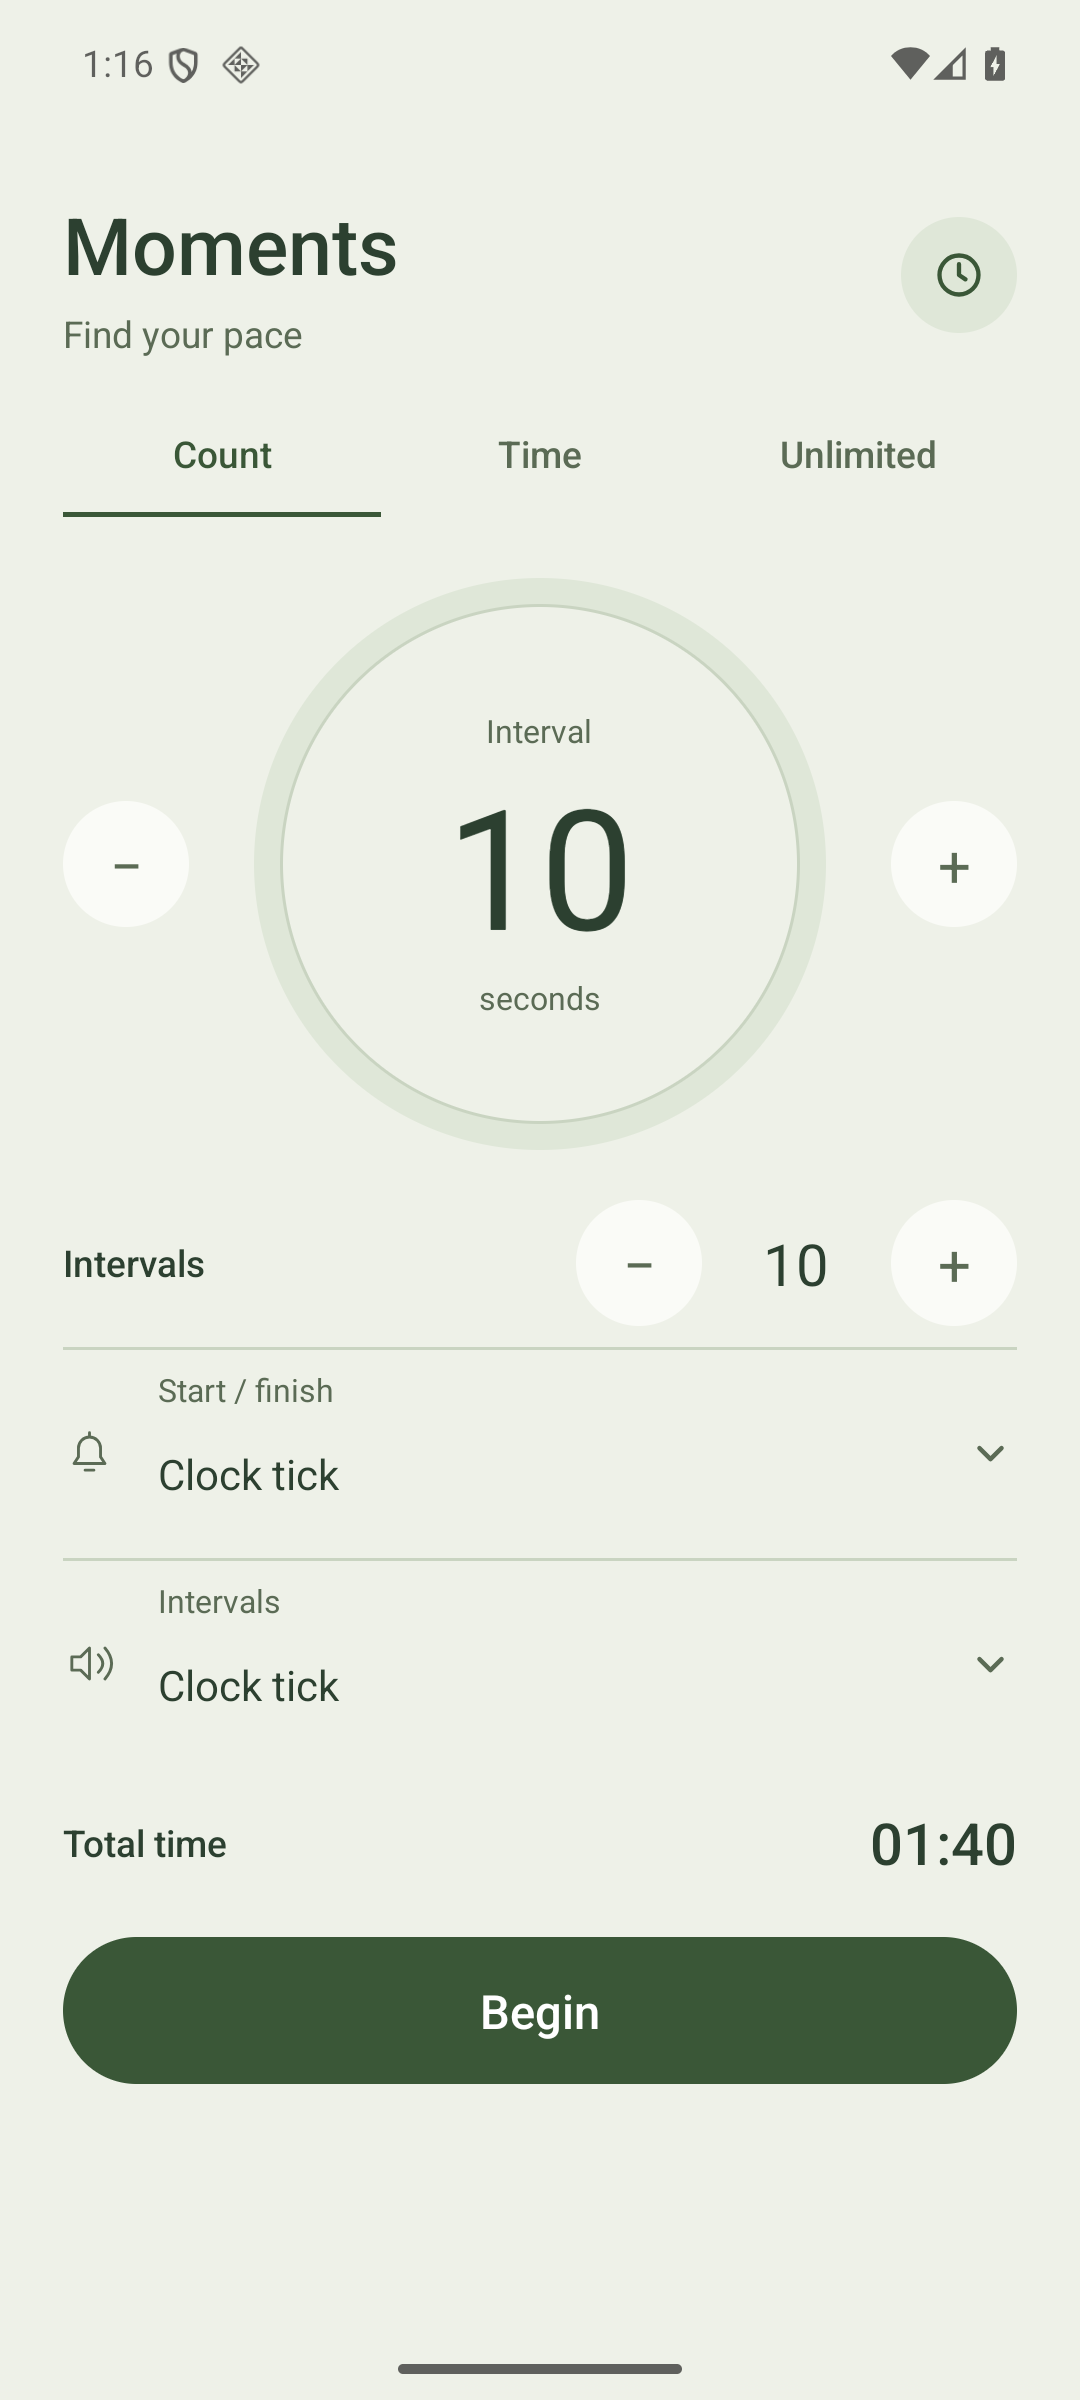
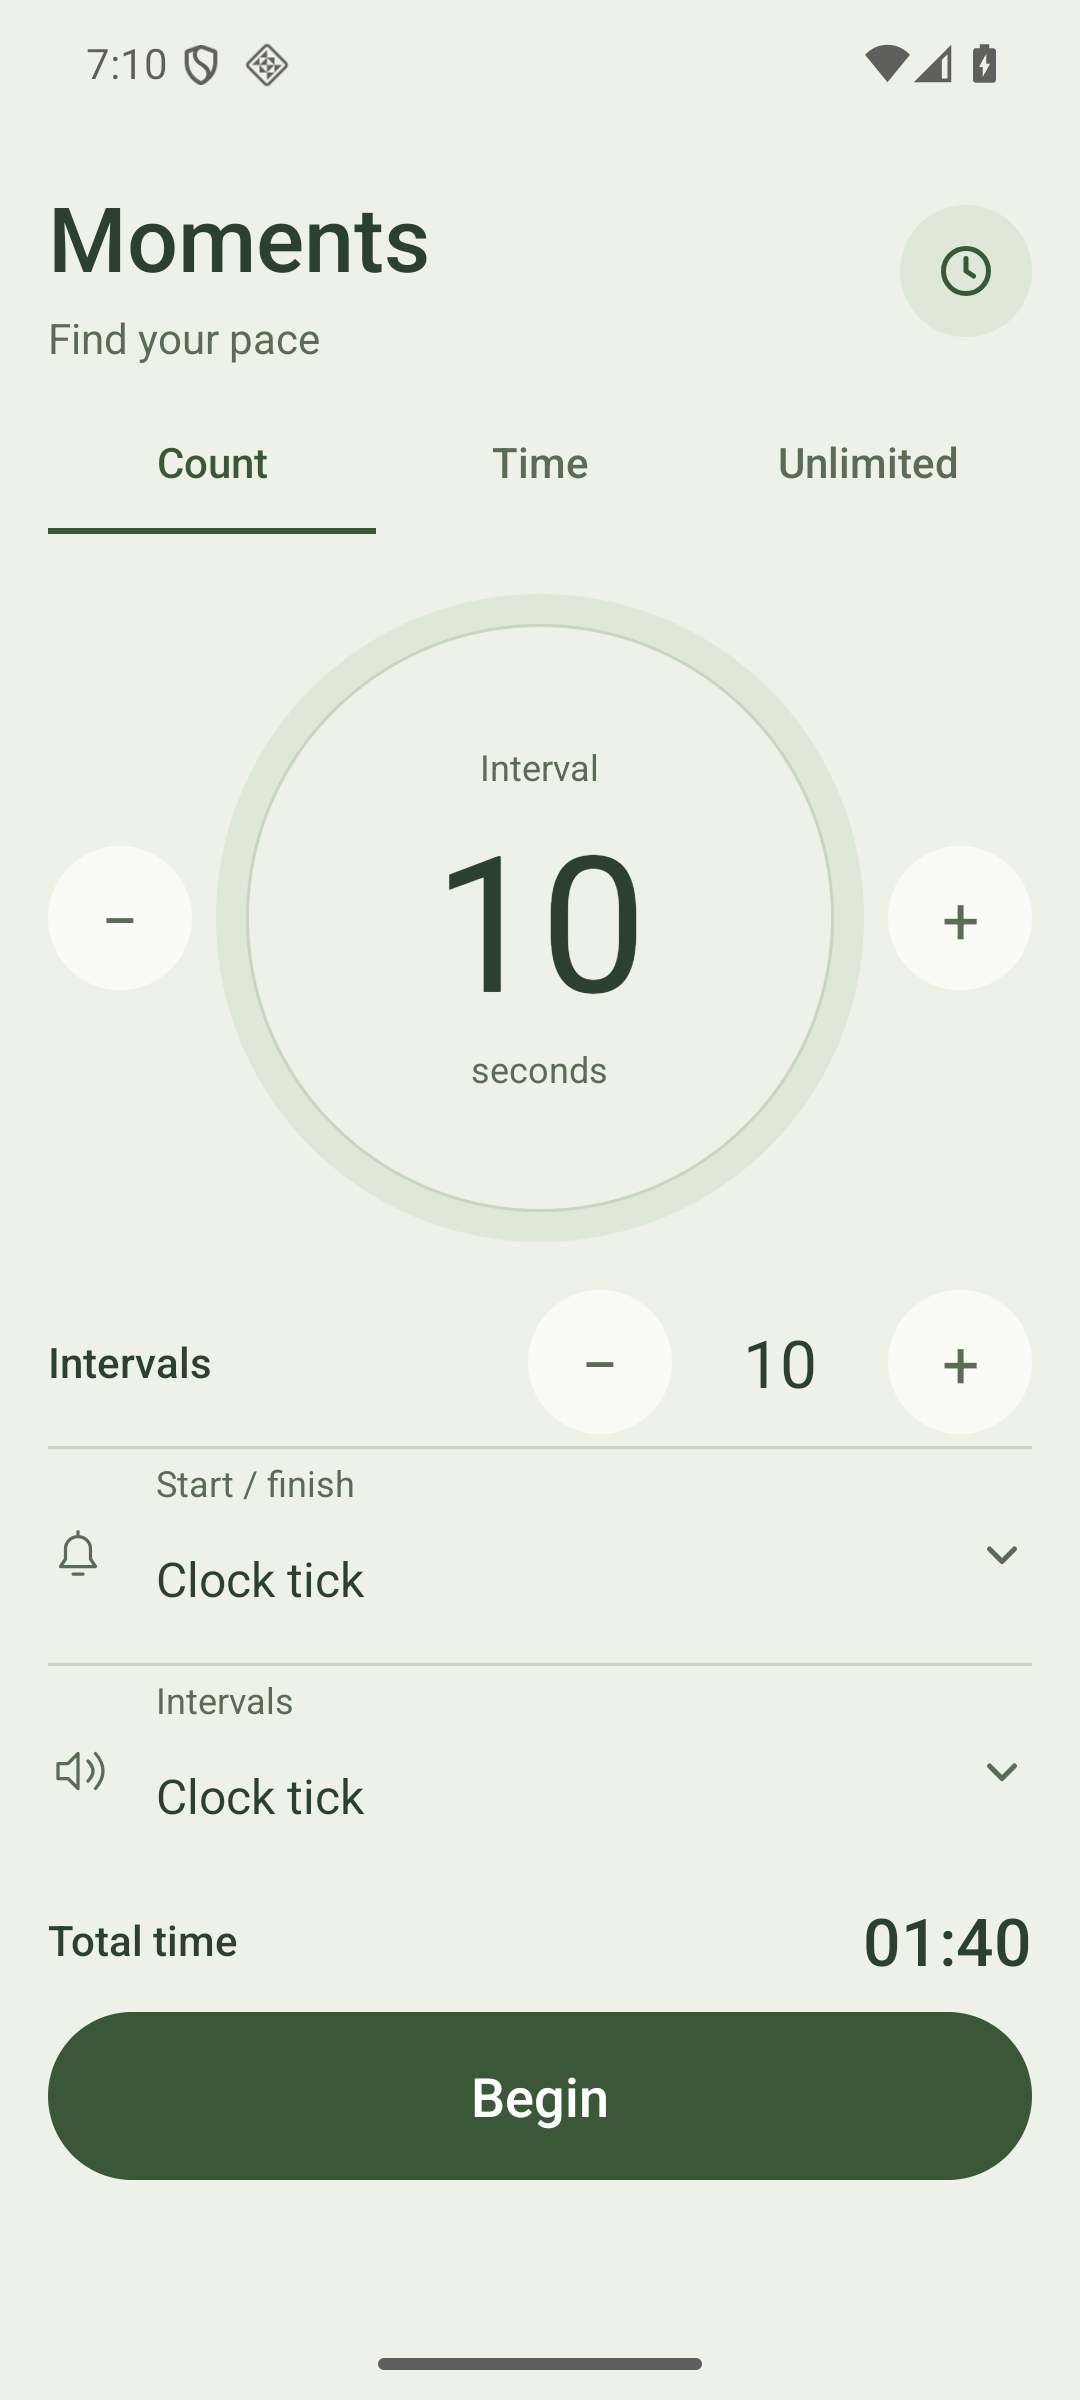
Fix settings layout on smaller phone viewports
Fit the interval dial to the available height, tighten settings spacing,
and compact the landscape header while keeping sound rows stationary.
Center screens within the usable width so system bars cannot clip controls.

Add compact viewport, resizing, and clipping regressions, update the
settings screenshot and README, and bump the app to version 1.8.1.

Validated with 47 unit tests, UI regression checks on two display profiles,
and clean release lint.

diff --git a/app/src/main/java/net/namekdev/moments/MainActivity.kt b/app/src/main/java/net/namekdev/moments/MainActivity.kt
@@ -33,6 +33,7 @@ import android.widget.FrameLayout
 import android.widget.LinearLayout
 import android.widget.RadioButton
 import android.widget.RadioGroup
+import android.widget.ScrollView
 import android.widget.TextView
 import android.widget.Toast
 
@@ -206,6 +207,15 @@ class MainActivity : Activity() {
         val configuration = resources.configuration
         if (configuration.orientation == Configuration.ORIENTATION_LANDSCAPE && configuration.fontScale < 1.3f) {
             findViewById<View>(R.id.setup_subtitle).visibility = View.GONE
+            findViewById<LinearLayout>(R.id.setup_header).orientation = LinearLayout.HORIZONTAL
+            for (id in listOf(R.id.brand_header, R.id.limit_mode)) {
+                findViewById<View>(id).layoutParams = (findViewById<View>(id).layoutParams as LinearLayout.LayoutParams).apply {
+                    width = 0
+                    weight = if (id == R.id.brand_header) 1f else 2f
+                    topMargin = 0
+                    marginStart = if (id == R.id.limit_mode) (16 * resources.displayMetrics.density).toInt() else 0
+                }
+            }
             findViewById<LinearLayout>(R.id.number_fields).orientation = LinearLayout.HORIZONTAL
             for (id in listOf(R.id.interval_fields, R.id.settings_details)) {
                 findViewById<View>(id).layoutParams = (findViewById<View>(id).layoutParams as LinearLayout.LayoutParams).apply {
@@ -223,19 +233,37 @@ class MainActivity : Activity() {
                 fields.getChildAt(1).layoutParams = LinearLayout.LayoutParams(0, LinearLayout.LayoutParams.WRAP_CONTENT, 1f)
             }
         }
-        val availableWidth = configuration.screenWidthDp - 2 * resources.getDimension(R.dimen.setup_padding) / resources.displayMetrics.density
-        val defaultDialSize = resources.getDimension(R.dimen.dial_size)
-        val dialSize = minOf(defaultDialSize, (availableWidth - 112) * resources.displayMetrics.density).toInt().coerceAtLeast(1)
-        findViewById<View>(R.id.interval_dial).layoutParams = (findViewById<View>(R.id.interval_dial).layoutParams as FrameLayout.LayoutParams).apply {
-            width = dialSize
-            height = dialSize
+        findViewById<ScrollView>(R.id.configuration_screen).addOnLayoutChangeListener { view, left, top, right, bottom, oldLeft, oldTop, oldRight, oldBottom ->
+            // Mode changes keep the same dial size; only a resized viewport needs fitting.
+            if (right - left == oldRight - oldLeft && bottom - top == oldBottom - oldTop) return@addOnLayoutChangeListener
+            val screen = view as ScrollView
+            val area = findViewById<View>(R.id.interval_fields)
+            if (configuration.orientation == Configuration.ORIENTATION_PORTRAIT && configuration.fontScale < 1.3f) {
+                val content = screen.getChildAt(0) as LinearLayout
+                val last = (content.childCount - 1 downTo 0).map { content.getChildAt(it) }.first { it.visibility != View.GONE }
+                val otherHeight = last.bottom + content.paddingBottom - area.height
+                val height = (screen.height - otherHeight).coerceIn(
+                    (144 * resources.displayMetrics.density).toInt(), resources.getDimensionPixelSize(R.dimen.dial_area_height))
+                area.layoutParams = area.layoutParams.apply { this.height = height }
+            }
+            val defaultSize = resources.getDimension(R.dimen.dial_size)
+            val dialSize = minOf(defaultSize, area.width - 112 * resources.displayMetrics.density,
+                area.layoutParams.height - 16 * resources.displayMetrics.density).toInt().coerceAtLeast(1)
+            findViewById<View>(R.id.interval_dial).layoutParams = (findViewById<View>(R.id.interval_dial).layoutParams as FrameLayout.LayoutParams).apply {
+                width = dialSize
+                height = dialSize
+            }
+            interval.setTextSize(TypedValue.COMPLEX_UNIT_PX, resources.getDimension(R.dimen.dial_number_size) * dialSize / defaultSize)
         }
-        interval.setTextSize(TypedValue.COMPLEX_UNIT_PX, resources.getDimension(R.dimen.dial_number_size) * dialSize / defaultDialSize)
-        if (configuration.screenWidthDp > 600) {
+        var previousWidth = 0
+        findViewById<View>(R.id.root).addOnLayoutChangeListener { root, _, _, _, _, _, _, _, _ ->
+            val availableWidth = root.width - root.paddingLeft - root.paddingRight
+            if (availableWidth == previousWidth) return@addOnLayoutChangeListener
+            previousWidth = availableWidth
             for (id in listOf(R.id.configuration_screen, R.id.playback_screen)) {
                 val maxWidth = if (id == R.id.configuration_screen && configuration.orientation == Configuration.ORIENTATION_LANDSCAPE) 840 else 600
                 findViewById<View>(id).layoutParams = FrameLayout.LayoutParams(
-                    (minOf(configuration.screenWidthDp, maxWidth) * resources.displayMetrics.density).toInt(), FrameLayout.LayoutParams.MATCH_PARENT,
+                    minOf(availableWidth, (maxWidth * resources.displayMetrics.density).toInt()), FrameLayout.LayoutParams.MATCH_PARENT,
                     Gravity.CENTER_HORIZONTAL)
             }
         }

diff --git a/app/src/androidTest/java/net/namekdev/moments/TickAppTest.kt b/app/src/androidTest/java/net/namekdev/moments/TickAppTest.kt
@@ -133,6 +133,63 @@ class TickAppTest {
                 }
                 if (soundPositions == null) soundPositions = positions
                 assertEquals("Sound rows moved in orientation $expected, mode $mode", soundPositions, positions)
+                scenario.onActivity { activity ->
+                    for (id in listOf(R.id.brand_header, R.id.limit_mode, R.id.interval_decrease,
+                        R.id.interval_increase, R.id.boundary_sound, R.id.sound, R.id.start_stop)) {
+                        val view = activity.findViewById<View>(id)
+                        val visible = android.graphics.Rect()
+                        assertTrue("Control $id is hidden", view.getGlobalVisibleRect(visible))
+                        assertEquals("Control $id is clipped horizontally", view.width, visible.width())
+                        assertEquals("Control $id is clipped vertically", view.height, visible.height())
+                    }
+                }
+            }
+        }
+    }
+
+    @Test fun compactPortraitKeepsBeginVisibleAndSoundRowsFixedAfterResizing() {
+        scenario.onActivity { it.requestedOrientation = ActivityInfo.SCREEN_ORIENTATION_PORTRAIT }
+        await { activityValue { it.resources.configuration.orientation == Configuration.ORIENTATION_PORTRAIT } }
+        await { activityValue { it.findViewById<View>(R.id.configuration_screen).let { screen -> screen.isLaidOut && !screen.isLayoutRequested } } }
+        var compactDialHeight = 0
+        for ((widthDp, heightDp) in listOf(360 to 640, 320 to 640, 360 to 760)) {
+            scenario.onActivity {
+                val density = it.resources.displayMetrics.density
+                it.findViewById<ScrollView>(R.id.configuration_screen).apply {
+                    layoutParams = layoutParams.apply {
+                        width = (widthDp * density).toInt()
+                        height = minOf((heightDp * density).toInt(), it.findViewById<View>(R.id.root).height)
+                    }
+                }
+            }
+            var soundPositions: List<Int>? = null
+            for (mode in listOf(R.id.count_mode, R.id.time_mode, R.id.unlimited)) {
+                scenario.onActivity { it.findViewById<RadioGroup>(R.id.limit_mode).check(mode) }
+                instrumentation.waitForIdleSync()
+                scenario.onActivity { activity ->
+                    val screen = activity.findViewById<ScrollView>(R.id.configuration_screen)
+                    assertEquals((widthDp * activity.resources.displayMetrics.density).toInt(), screen.width)
+                    assertFalse("Settings overflow ${widthDp}x$heightDp, mode $mode", screen.canScrollVertically(1) || screen.canScrollVertically(-1))
+                    val begin = activity.findViewById<Button>(R.id.start_stop)
+                    val visible = android.graphics.Rect()
+                    assertTrue(begin.getGlobalVisibleRect(visible))
+                    assertEquals("Begin is clipped", begin.height, visible.height())
+                    val positions = listOf(R.id.boundary_sound, R.id.sound).map { id ->
+                        IntArray(2).also { activity.findViewById<View>(id).getLocationOnScreen(it) }[1]
+                    }
+                    if (soundPositions == null) soundPositions = positions
+                    assertEquals("Sound rows moved in mode $mode", soundPositions, positions)
+                    val dialHeight = activity.findViewById<View>(R.id.interval_fields).height
+                    if (heightDp == 640) {
+                        assertTrue("Dial did not adapt to the shorter viewport", dialHeight < activity.resources.getDimensionPixelSize(R.dimen.dial_area_height))
+                        compactDialHeight = dialHeight
+                    } else {
+                        assertTrue("Dial did not grow after enlarging the viewport", dialHeight > compactDialHeight)
+                    }
+                    for (id in listOf(R.id.interval_decrease, R.id.interval_increase, R.id.count_decrease, R.id.count_increase)) {
+                        assertTrue(activity.findViewById<View>(id).height >= 48 * activity.resources.displayMetrics.density)
+                    }
+                }
             }
         }
     }

diff --git a/README.md b/README.md
@@ -36,7 +36,7 @@ The defaults are a 10-second interval, Count mode with 10 intervals, and Clock t
 
 Count, Time, and Unlimited are mutually exclusive modes. Inputs and buttons retain 48 dp touch targets. The total-time preview updates as you edit, shows "No time limit" in Unlimited, and asks you to check invalid settings. Interval and count accept whole numbers from 1 to 2147483647. Time limit accepts whole minutes and 0–59 seconds, with a total from 1 to 2147483647 seconds. Invalid edits show an error and never overwrite saved valid values. Every valid setting saves automatically in SharedPreferences: interval, count, time limit, selected mode, Unlimited, and both sound choices. They survive closing, force-stop, and reboot, even if you never press Begin. Unlimited hides the limit inputs while retaining their values. Select either finite mode to show its saved limit again.
 
-The settings screen uses a sage palette, underline tabs, a large editable interval dial with minus/plus controls, and flat sound rows in light and dark themes. Count and Time share a reserved limit area, so the sound choices stay at the same height when switching between Count, Time, and Unlimited. Minus/plus controls stop at the same numeric bounds as typing. Landscape places the dial beside the other settings; large text keeps a scrollable vertical layout. Begin opens playback, where Pause/Resume is the primary action. Wider windows center the controls. The launcher uses an [adaptive icon with a monochrome layer](https://developer.android.com/develop/ui/compose/system/icon_design_adaptive) for themed icons. The interface uses native Android views with no UI library or runtime dependency.
+The settings screen uses a sage palette, underline tabs, a large editable interval dial with minus/plus controls, and flat sound rows in light and dark themes. Count and Time share a reserved limit area, so the sound choices stay at the same height when switching between Count, Time, and Unlimited. Minus/plus controls stop at the same numeric bounds as typing. Portrait sizes the dial to the available viewport height, with tighter spacing so Begin remains visible on denser phone displays. Controls retain 48 dp touch targets. Landscape places the tabs beside the title and the dial beside the other settings; large text keeps a scrollable vertical layout. Begin opens playback, where Pause/Resume is the primary action. Wider windows center the controls. The launcher uses an [adaptive icon with a monochrome layer](https://developer.android.com/develop/ui/compose/system/icon_design_adaptive) for themed icons. The interface uses native Android views with no UI library or runtime dependency.
 
 Separate **Start / finish** and **Intervals** dropdowns each offer **No sound** and real recordings of Clock tick, Electric wall clock, Gong, Singing bowl, Soft bell, Low bell, Wooden temple block, and Tingsha cymbals. Start / finish plays once when the session starts and once at its natural end. Intervals plays only at boundaries between those cues. Unlimited plays the start sound once and then interval sounds until stopped. Stop cancels immediately without a finish cue. Each choice can be silent independently; the timer and visual cues still run. When both are No sound, no audio is loaded. Selecting No sound stops any preview. Electric wall clock is a short tick from a quartz wall-clock recording. Selecting a recording previews it, including selecting the same sound again. Both choices save automatically and are locked during playback. Upgrading from the single-sound version restores the old sound into both choices. Changing sounds, starting a session, rotating, or leaving the screen cancels the preview. Restoring settings never starts a preview. The recordings are bundled offline and normalized for stronger playback; [sources, creators, and public-domain licenses](audio-sources/CREDITS.md) are included. Media volume controls playback volume; the app does not change the device volume.
 
@@ -82,7 +82,7 @@ python3 scripts/emulator_smoke.py --serial emulator-5580
 
 The Python smoke test requires Python 3 and ADB on `PATH`, plus the app and test APKs built by `connectedDebugAndroidTest`. It refuses physical-device serials. It clears Moments' data on that emulator, exercises the real notification permission dialog, Pause/Resume and Stop controls in the app and notification shade, and checks both countdown modes. It checks screen-off playback and paused state, wake lock release and reacquisition, reopening, process termination, and reboot. Settings survive while process termination or reboot ends the session. A native instrumentation probe in the test APK reads the current accessibility tree without waiting for the continuously updating timer to become idle. This probe is absent from the delivered app APK.
 
-Unit tests cover immediate playback, full interval counts and the ending sound, time limits on and between boundaries, limits shorter than an interval, unlimited mode, cancellation before the end and during its tail, stale callbacks, timing drift, delayed callbacks past the deadline, each sound's completion and one-second cadence, playback failure, numeric bounds, countdown overflow and formatting, unknown sound fallback, and every WAV's duration, decoded size, and signal level. Instrumentation covers fixed sound-row positions and settings fitting in portrait and landscape, stepper bounds and playback locking, count/time validation and persistence, mutually exclusive modes and hidden limit inputs in Unlimited, countdown direction and zero during the final sound, intervals-left visibility, native dropdown previews and same-item replay, rapid preview replacement while loading, preview cancellation on Start/rotation/reopening, sound restoration, playback and cleanup for every sound, rotation and reopening during countdown, elapsed time in Unlimited, timer reset, confirming and canceling Stop, confirmation restoration, completion during confirmation, rapid Start/Stop, duplicate starts, queued restarts after all clients unbind, stopping while SoundPool loads, screen-off playback, notification Stop, and resource cleanup.
+Unit tests cover immediate playback, full interval counts and the ending sound, time limits on and between boundaries, limits shorter than an interval, unlimited mode, cancellation before the end and during its tail, stale callbacks, timing drift, delayed callbacks past the deadline, each sound's completion and one-second cadence, playback failure, numeric bounds, countdown overflow and formatting, unknown sound fallback, and every WAV's duration, decoded size, and signal level. Instrumentation covers fixed sound-row positions and settings fitting in portrait and landscape, compact 360 × 640 and 320 × 640 dp viewports, resizing and an unclipped Begin button, stepper bounds and playback locking, count/time validation and persistence, mutually exclusive modes and hidden limit inputs in Unlimited, countdown direction and zero during the final sound, intervals-left visibility, native dropdown previews and same-item replay, rapid preview replacement while loading, preview cancellation on Start/rotation/reopening, sound restoration, playback and cleanup for every sound, rotation and reopening during countdown, elapsed time in Unlimited, timer reset, confirming and canceling Stop, confirmation restoration, completion during confirmation, rapid Start/Stop, duplicate starts, queued restarts after all clients unbind, stopping while SoundPool loads, screen-off playback, notification Stop, and resource cleanup.
 
 Pause tests cover remaining interval fractions, both finite limits, repeated pauses in Unlimited, paused final sounds, stale and duplicate commands, late callbacks after resuming, Stop while paused, rotation, reopening, screen lock, notification controls, and wake lock cleanup.
 
